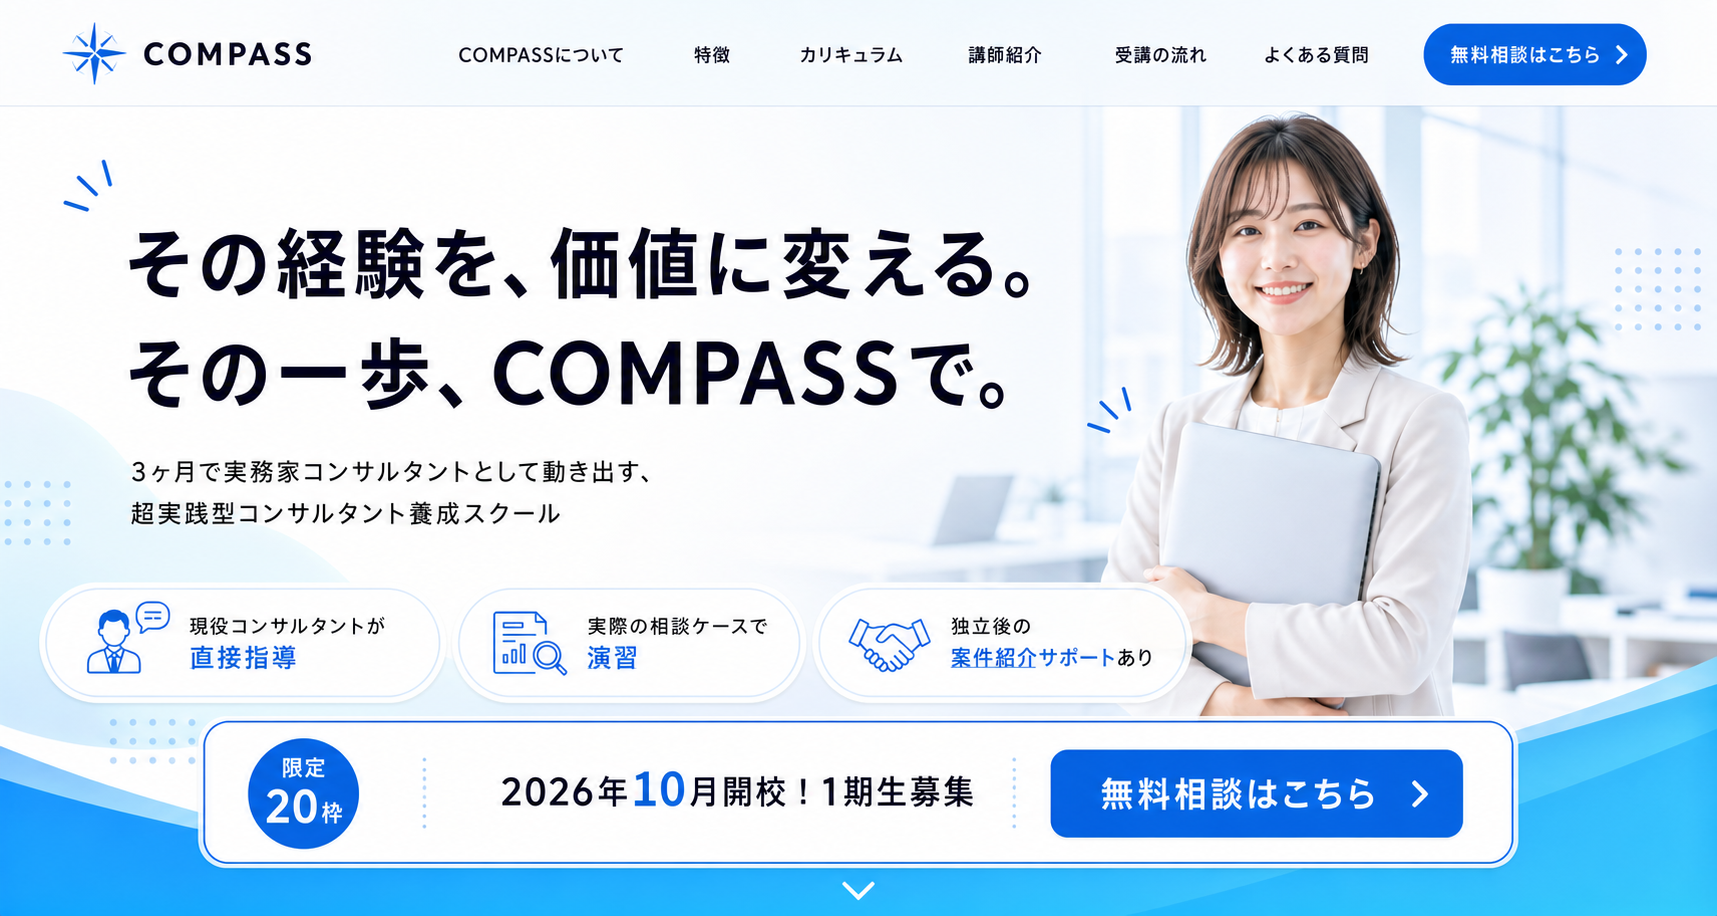
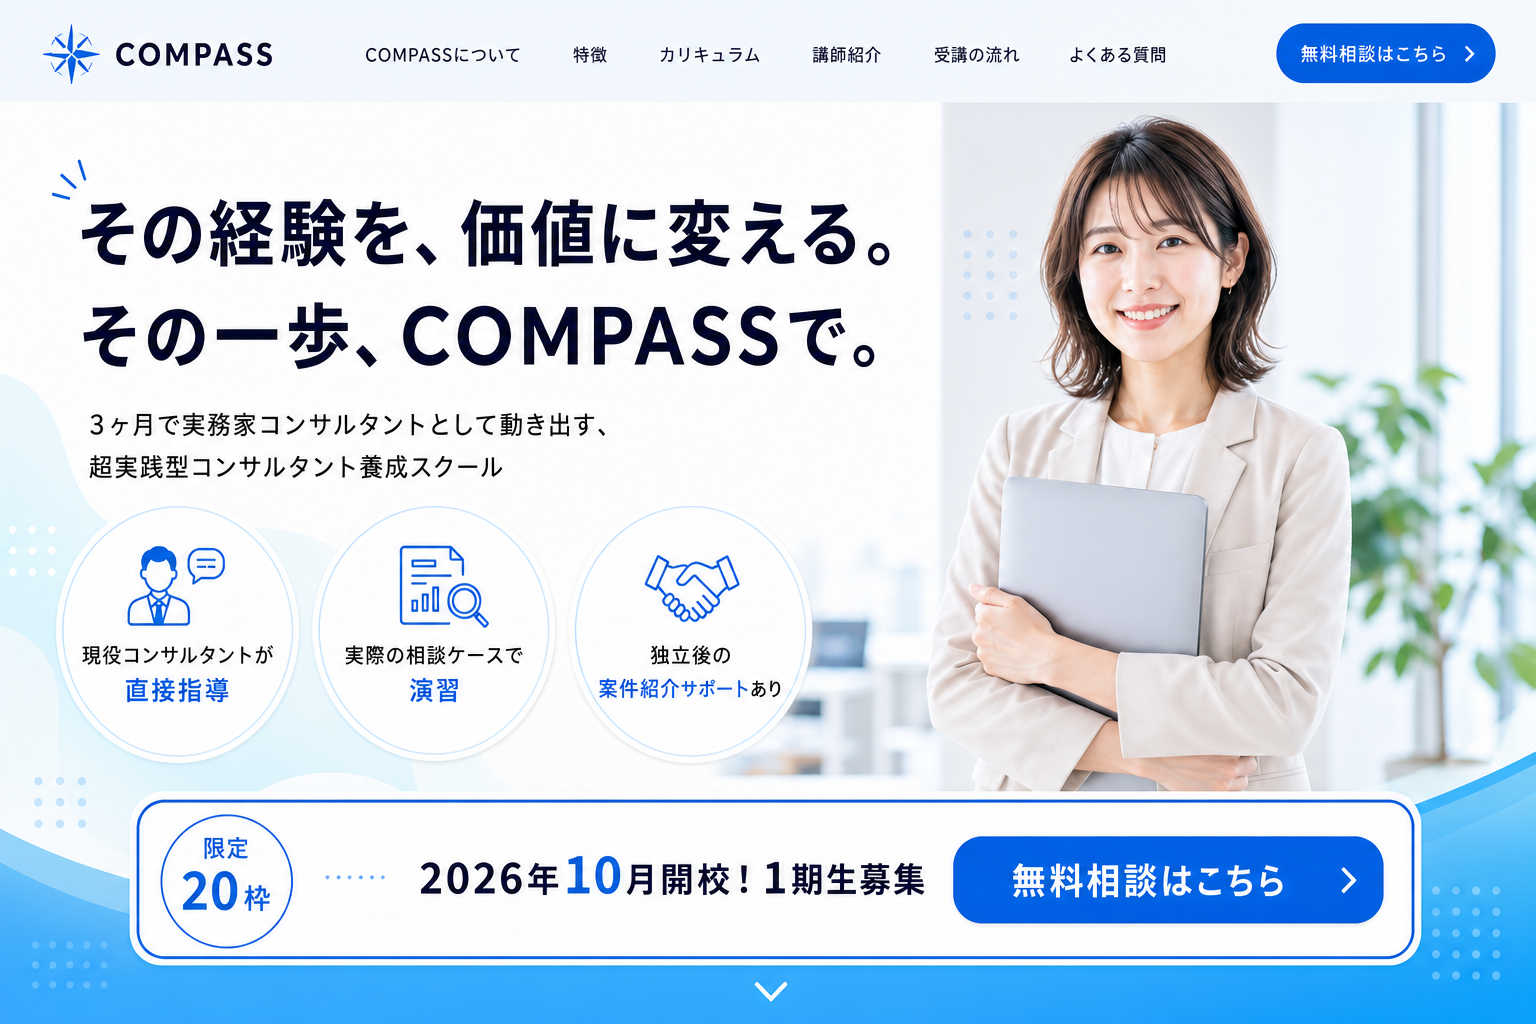
compass-consulting-school-lp: 残り1セクション（ヒーロー）をPC再設計
再監査で残っていた01-heroを、見出し+バッジのテキスト列（左56%）と
人物写真の独立縦長カラム（右44%）に分離して作り直し。

diff --git a/portfolio/compass-consulting-school-lp/lp/style.css b/portfolio/compass-consulting-school-lp/lp/style.css
@@ -70,7 +70,7 @@ html {
 }
 
 /* 画像読み込み前にレイアウトの高さを確保（実測値） */
-.img-ratio-hero { aspect-ratio: 1717 / 916; }
+.img-ratio-hero { aspect-ratio: 1536 / 1024; }
 .img-ratio-campaign { aspect-ratio: 1717 / 916; }
 .img-ratio-problem { aspect-ratio: 1536 / 1024; }
 .img-ratio-target { aspect-ratio: 1697 / 927; }